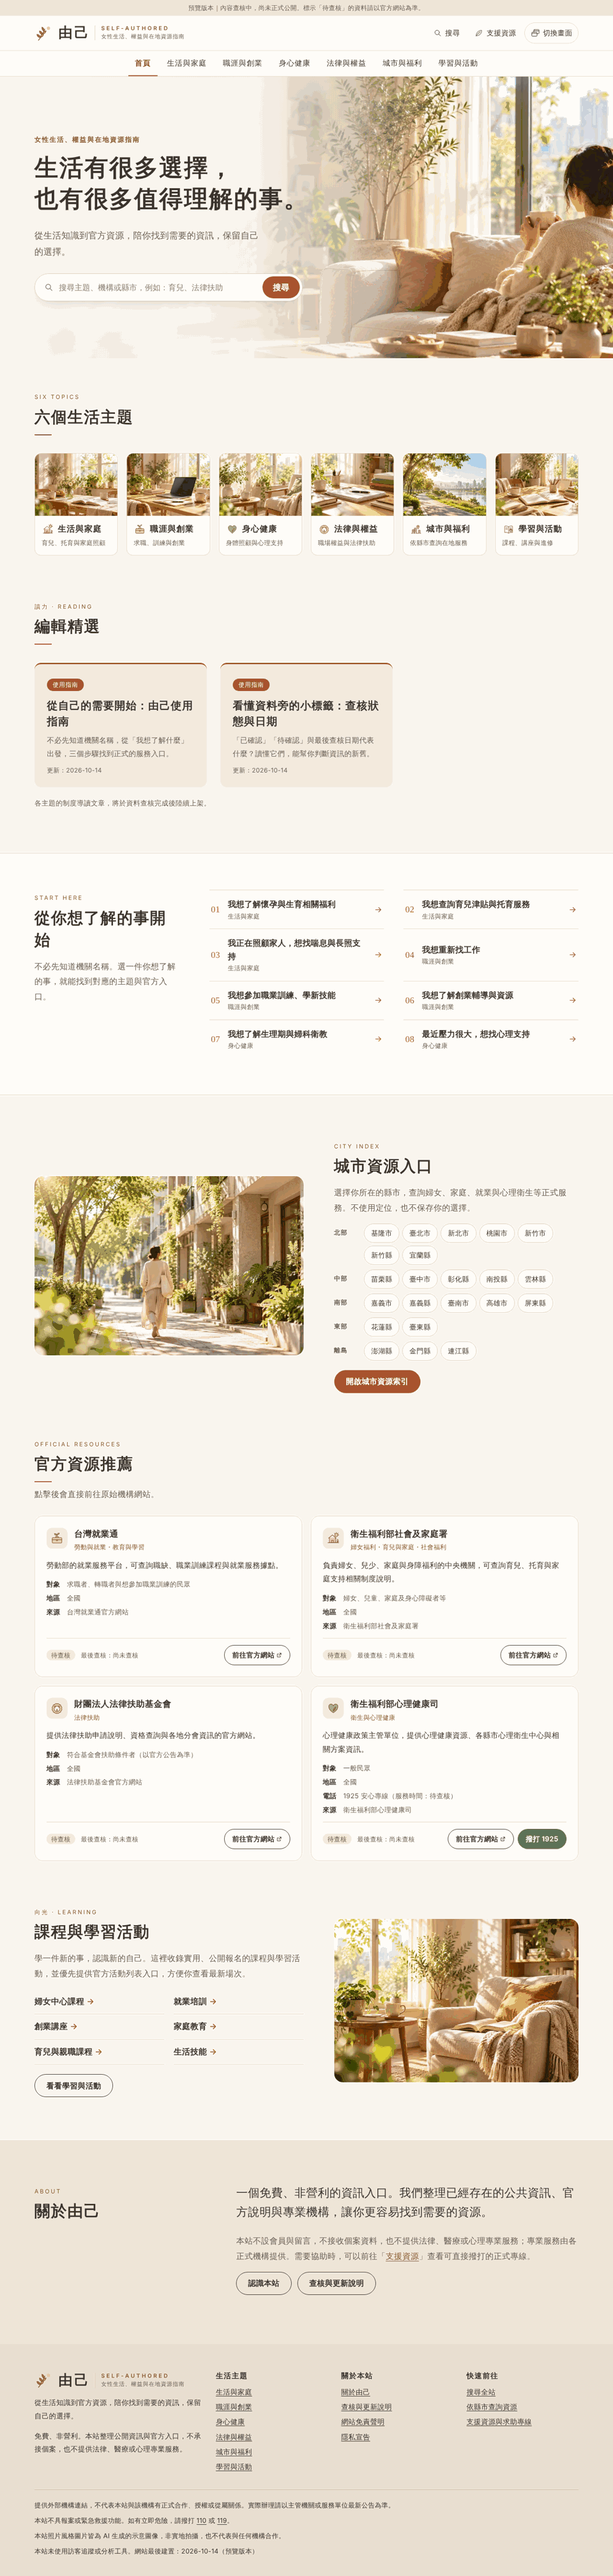
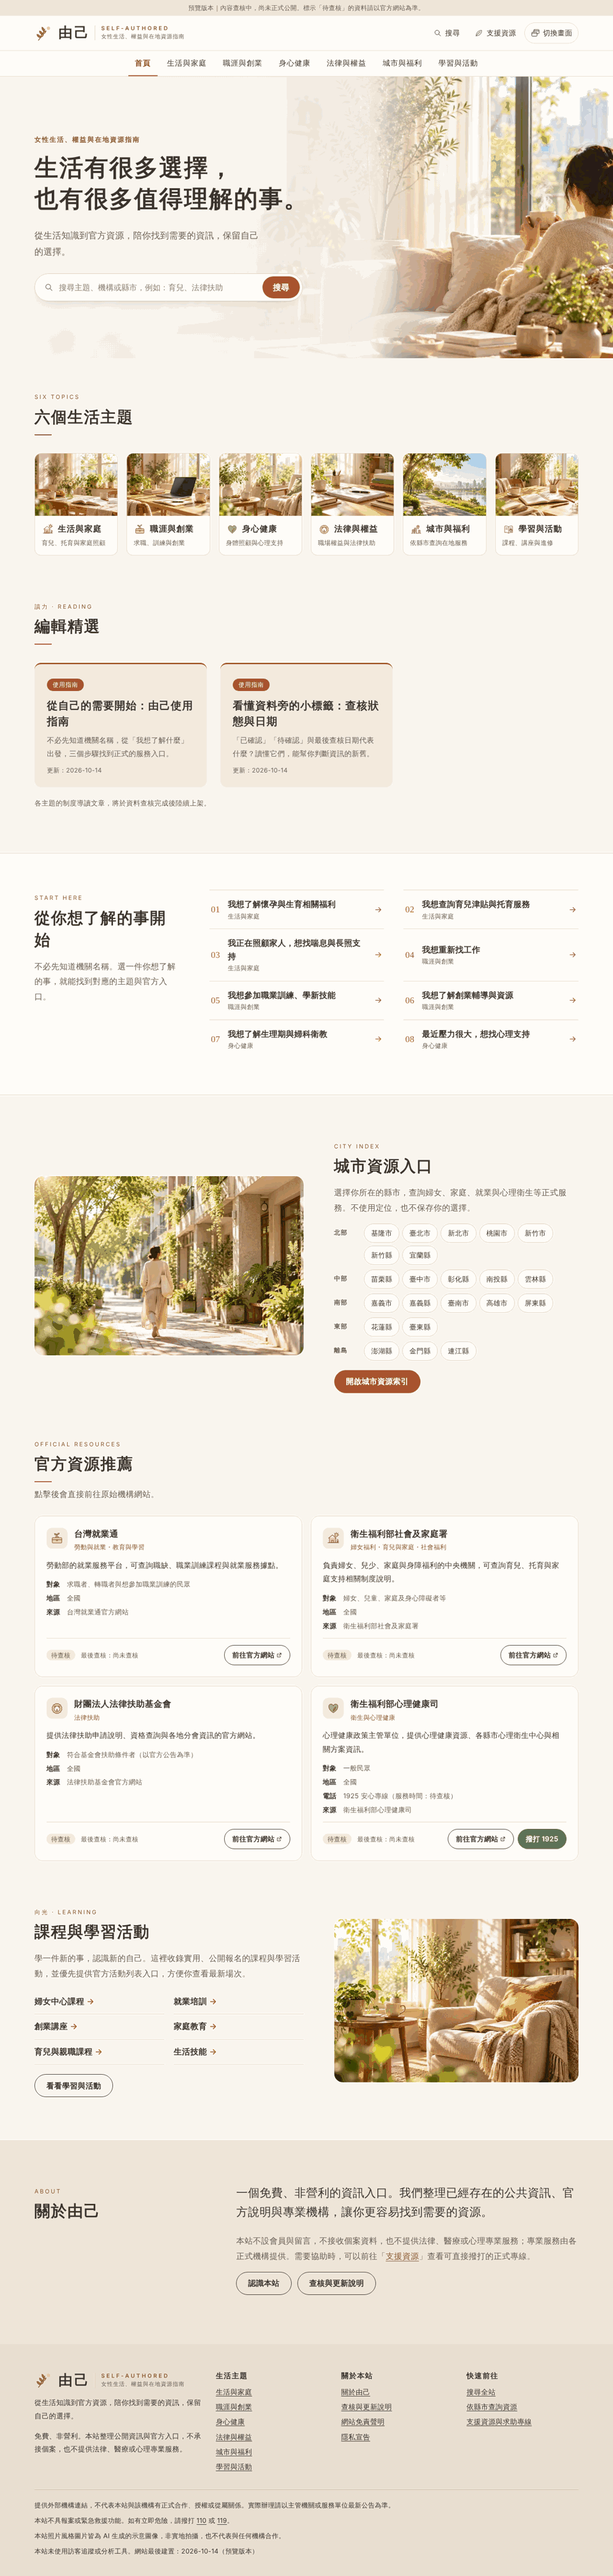
修正首頁主視覺導言在 1100px 的文字對比不足（CI 4.48:1）
- 原因：主視覺遮罩以畫面百分比淡出（42% 起），文字欄末端落在淡出區；
  GitHub Actions 的中文字型略寬，導言右緣延伸到 509px，對比降為 4.48:1
- 遮罩改為以文字欄位置為基準的固定寬度實色區（文字欄起點＋700px 後才淡出），
  不再受螢幕寬度或字型寬度影響
- 1100–1199px 改用文字在照片下方的版面
- 對比測試加嚴：改截整頁、無法量測或缺少量測範圍一律判定失敗、新增 1200px
- 更新 1100／1200px 與首頁截圖

Claude-Session: https://claude.ai/code/session_01Y8iXUK8ACHR2xjDVJe1ZDv

Changed region(s): [[0.4688, 0.0312, 0.7812, 0.1562]]

diff --git a/src/assets/css/main.css b/src/assets/css/main.css
@@ -231,8 +231,14 @@ main { display: block; }
 .hero-media .photo { width: 100%; height: clamp(520px, 46vw, 660px); aspect-ratio: auto; }
 .hero-media::after {
   content: ""; position: absolute; inset: 0; pointer-events: none;
-  /* 讓左側文字在任何照片上都清楚可讀 */
-  background: linear-gradient(90deg, rgba(250, 246, 239, 0.96) 0%, rgba(250, 246, 239, 0.92) 42%, rgba(250, 246, 239, 0.62) 56%, rgba(250, 246, 239, 0) 74%);
+  /* 讓左側文字在任何照片上都清楚可讀：
+     以文字欄位置（--copy-x）為基準的固定寬度實色區，不隨螢幕百分比或字型寬度變動；
+     文字欄最寬 660px，實色區延伸到 700px 後才開始淡出。 */
+  --copy-x: calc(max(0px, (100% - var(--wrap)) / 2) + var(--gutter));
+  background: linear-gradient(90deg,
+    rgba(250, 246, 239, 0.96) 0,
+    rgba(250, 246, 239, 0.92) calc(var(--copy-x) + 700px),
+    rgba(250, 246, 239, 0) calc(var(--copy-x) + 940px));
 }
 .hero-media { position: relative; }
 .hero .photo-ph { place-items: center end; padding-right: 7%; }
@@ -243,8 +249,9 @@ main { display: block; }
 .hero h1 .line { display: block; }
 .hero-lead { font-size: 1.15rem; color: var(--muted); margin-bottom: 1.6em; max-width: 26em; }
 
-@media (max-width: 1099px) {
-  /* 手機與平板：照片完整呈現（人物與光影不被文字遮住），文字放在照片下方，確保文字對比 */
+@media (max-width: 1199px) {
+  /* 手機與平板（含 1100–1199px 的小筆電）：照片完整呈現，文字放在照片下方的實色底上，
+     避免文字欄在較窄畫面中覆蓋到照片主體 */
   .hero-media .photo { height: clamp(300px, 62vh, 470px); aspect-ratio: auto; }
   .hero-media .photo img { object-position: 70% 50%; }
   .hero-media::after { background: linear-gradient(180deg, rgba(250, 246, 239, 0) 72%, rgba(250, 246, 239, 0.9) 100%); }
